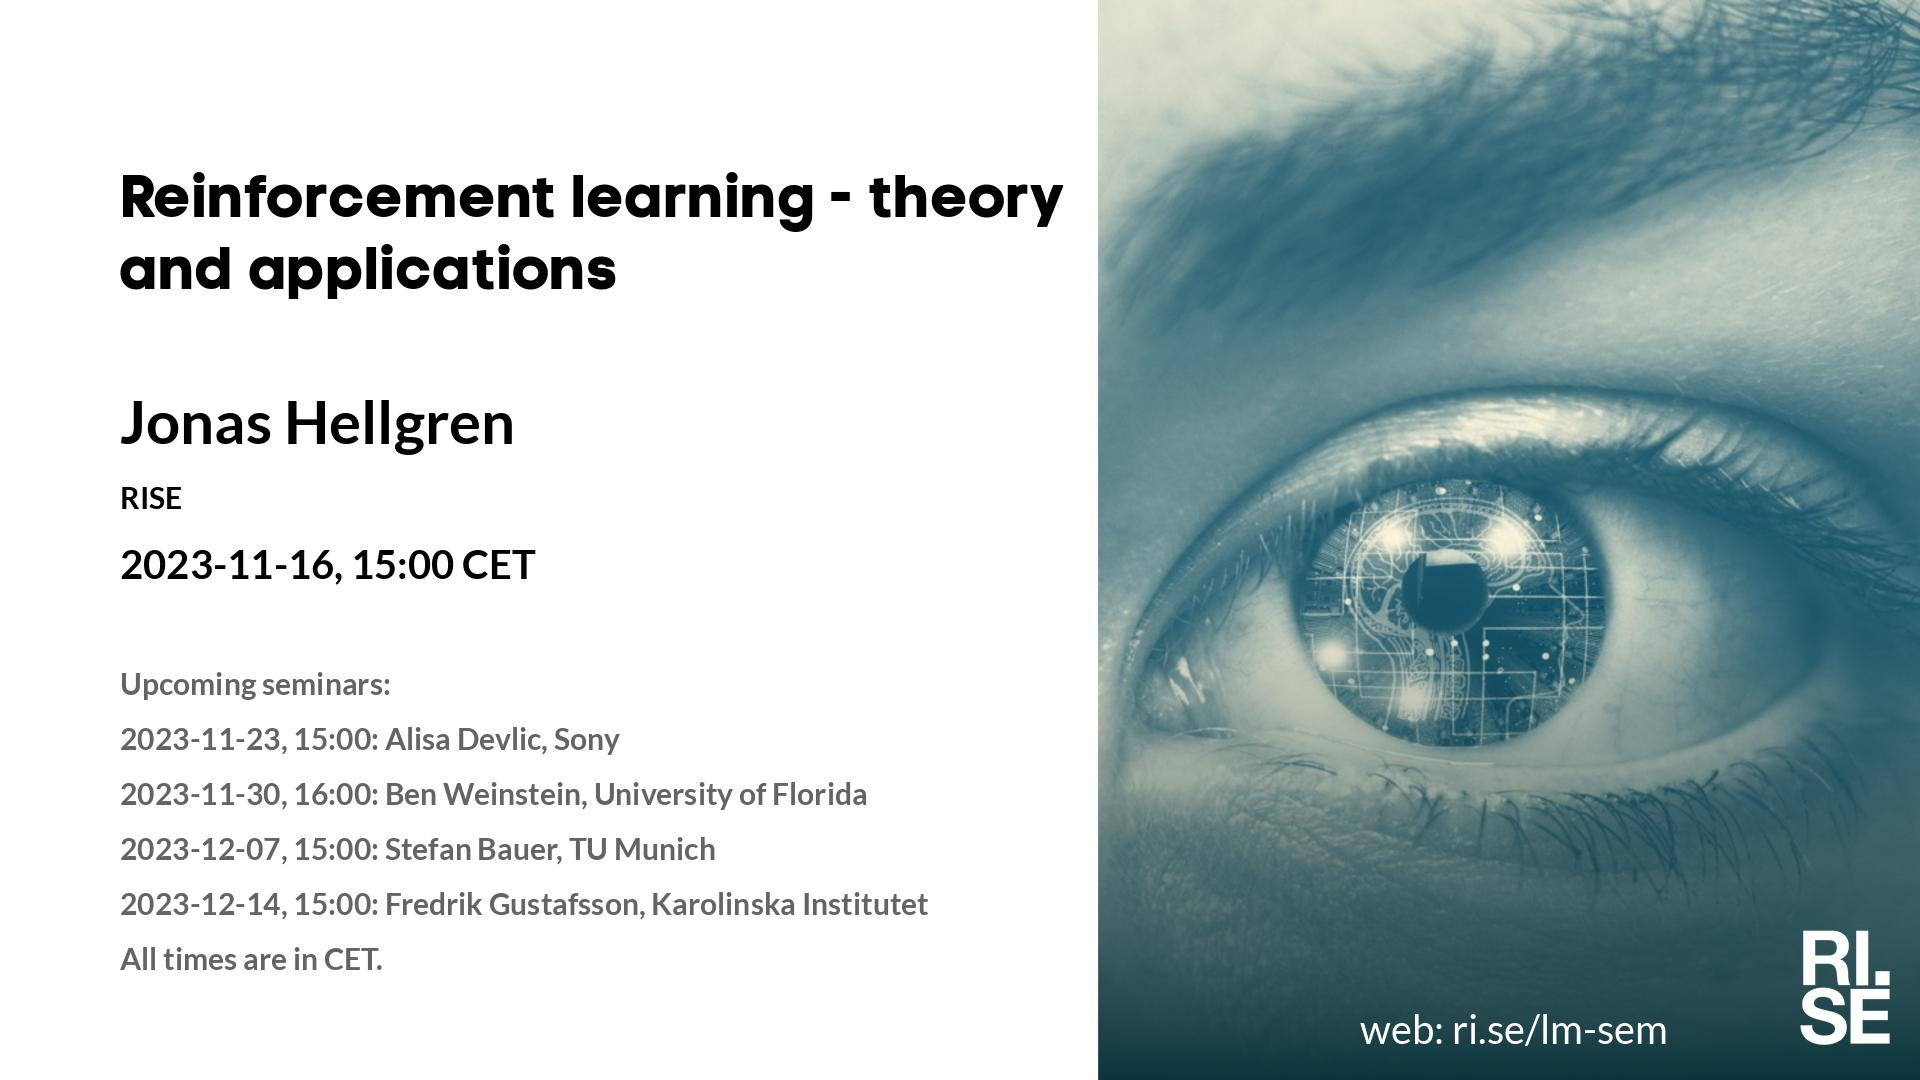
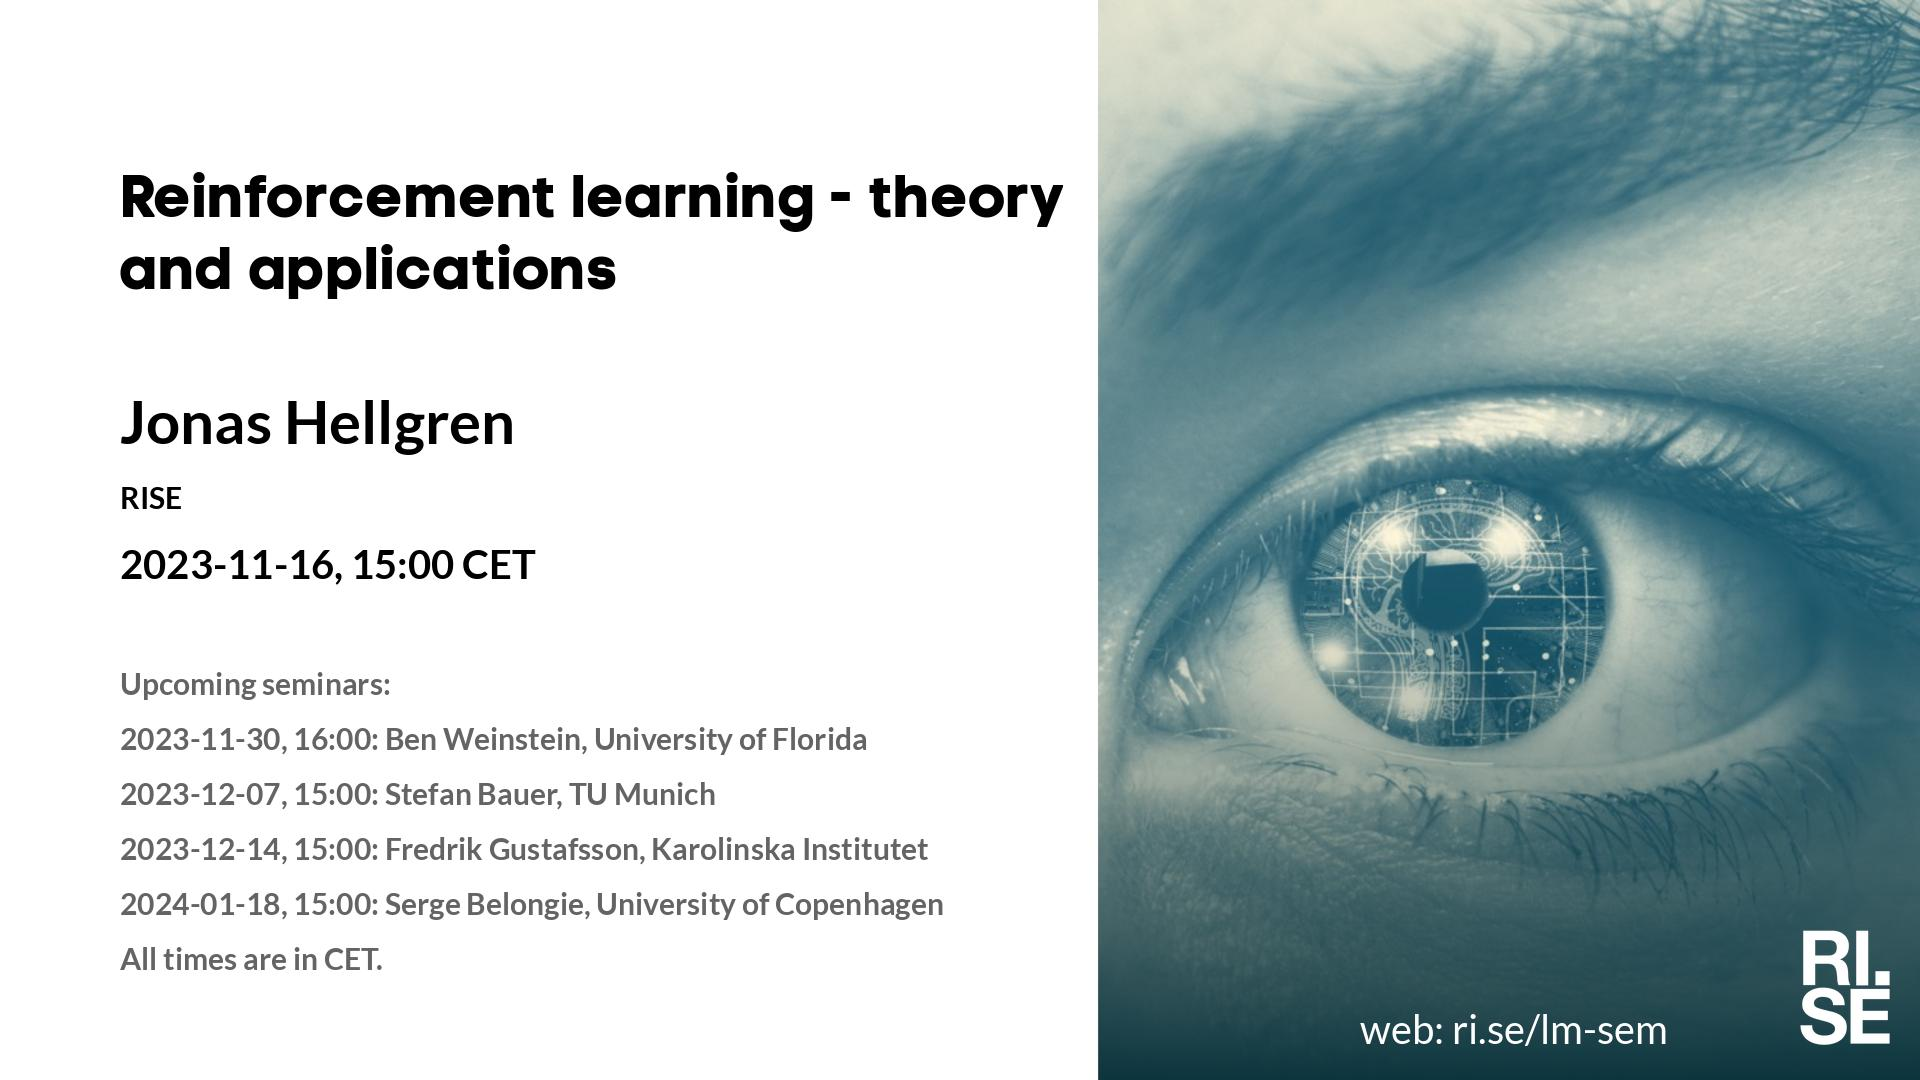
Updated plan on web site.

diff --git a/lm/index.md b/lm/index.md
@@ -5,7 +5,7 @@ metatags: "<meta name=\"robots\" content=\"noindex,nofollow\" />"
 <style type="text/css" scoped>
 td, th {border: 1px solid #ccc; padding: 0.6em;}
 table {border-collapse: collapse;}
-</style># Learning Machines Plan 2023-11-10
+</style># Learning Machines Plan 2023-11-13
 
 | date | speaker                                   | photo | shareable | meeting backdrop | youtube thumbnail | <a title="Speaker, Title, Abstract, Bio, Photo. Strikethrough means we don't have it yet.">comment</a>        |
 | ---- | ----------------------------------------- | ----- | ----- | ----- | ----- | -------------- |
@@ -13,7 +13,6 @@ table {border-collapse: collapse;}
 |  2023-11-02  |  [Priya Donti, MIT and Climate Change AI](2023-11-02.md)  |  [photo](photo-priya-donti.jpg)  |  [social media ](social-media-priya-donti.jpg)  |  [meeting backdrop ](meeting-backdrop-priya-donti.jpg)  |  [youtube thumbnail ](youtube-thumbnail-priya-donti.jpg)  |  STABP  |
 |  2023-11-09  |  [Nataša Sladoje, Uppsala University](2023-11-09.md)  |  [photo](photo-natasa-sladoje.jpg)  |  [social media ](social-media-natasa-sladoje.jpg)  |  [meeting backdrop ](meeting-backdrop-natasa-sladoje.jpg)  |  [youtube thumbnail ](youtube-thumbnail-natasa-sladoje.jpg)  |  STABP  |
 |  2023-11-16  |  [Jonas Hellgren, RISE](2023-11-16.md)  |  [photo](photo-jonas-hellgren.jpg)  |  [social media ](social-media-jonas-hellgren.jpg)  |  [meeting backdrop ](meeting-backdrop-jonas-hellgren.jpg)  |  [youtube thumbnail ](youtube-thumbnail-jonas-hellgren.jpg)  |  STABP  |
-|  2023-11-23  |  [Alisa Devlic, Sony](2023-11-23.md)  |  [photo](photo-alisa-devlic.jpg)  |  [social media ](social-media-alisa-devlic.jpg)  |  [meeting backdrop ](meeting-backdrop-alisa-devlic.jpg)  |  [youtube thumbnail ](youtube-thumbnail-alisa-devlic.jpg)  |  S~~TAB~~P  |
 |  2023-11-30  |  [Ben Weinstein, University of Florida](2023-11-30.md)  |  [photo](photo-ben-weinstein.jpg)  |  [social media ](social-media-ben-weinstein.jpg)  |  [meeting backdrop ](meeting-backdrop-ben-weinstein.jpg)  |  [youtube thumbnail ](youtube-thumbnail-ben-weinstein.jpg)  |  STABP  |
 |  2023-12-07  |  [Stefan Bauer, TU Munich](2023-12-07.md)  |  [photo](photo-stefan-bauer.jpg)  |  [social media ](social-media-stefan-bauer.jpg)  |  [meeting backdrop ](meeting-backdrop-stefan-bauer.jpg)  |  [youtube thumbnail ](youtube-thumbnail-stefan-bauer.jpg)  |  STABP  |
 |  2023-12-14  |  [Fredrik Gustafsson, Karolinska Institutet](2023-12-14.md)  |  [photo](photo-fredrik-gustafsson.jpg)  |  [social media ](social-media-fredrik-gustafsson.jpg)  |  [meeting backdrop ](meeting-backdrop-fredrik-gustafsson.jpg)  |  [youtube thumbnail ](youtube-thumbnail-fredrik-gustafsson.jpg)  |  STABP  |

diff --git a/lm/2023-11-16.md b/lm/2023-11-16.md
@@ -24,10 +24,10 @@ The following algorithms will be presented presented: Dynamic programming. Tempo
 
 **Upcoming seminars:**
 
-* 2023-11-23, 15:00: Alisa Devlic, Sony
 * 2023-11-30, 16:00: Ben Weinstein, University of Florida
 * 2023-12-07, 15:00: Stefan Bauer, TU Munich
 * 2023-12-14, 15:00: Fredrik Gustafsson, Karolinska Institutet
+* 2024-01-18, 15:00: Serge Belongie, University of Copenhagen
 * All times are in CET.
 
 More information and coming seminars: [https://ri.se/lm-sem](https://ri.se/lm-sem)

diff --git a/lm/2023-11-09.md b/lm/2023-11-09.md
@@ -25,9 +25,9 @@ Nataša obtained her PhD degree in computerized image processing at the Centre f
 **Upcoming seminars:**
 
 * 2023-11-16, 15:00: Jonas Hellgren, RISE
-* 2023-11-23, 15:00: Alisa Devlic, Sony
 * 2023-11-30, 16:00: Ben Weinstein, University of Florida
 * 2023-12-07, 15:00: Stefan Bauer, TU Munich
+* 2023-12-14, 15:00: Fredrik Gustafsson, Karolinska Institutet
 * All times are in CET.
 
 More information and coming seminars: [https://ri.se/lm-sem](https://ri.se/lm-sem)

diff --git a/lm/2023-11-02.md b/lm/2023-11-02.md
@@ -22,8 +22,8 @@ Welcome to this week's Learning Machines seminar.
 
 * 2023-11-09, 15:00: Nataša Sladoje, Uppsala University
 * 2023-11-16, 15:00: Jonas Hellgren, RISE
-* 2023-11-23, 15:00: Alisa Devlic, Sony
 * 2023-11-30, 16:00: Ben Weinstein, University of Florida
+* 2023-12-07, 15:00: Stefan Bauer, TU Munich
 * All times are in CET.
 
 More information and coming seminars: [https://ri.se/lm-sem](https://ri.se/lm-sem)
